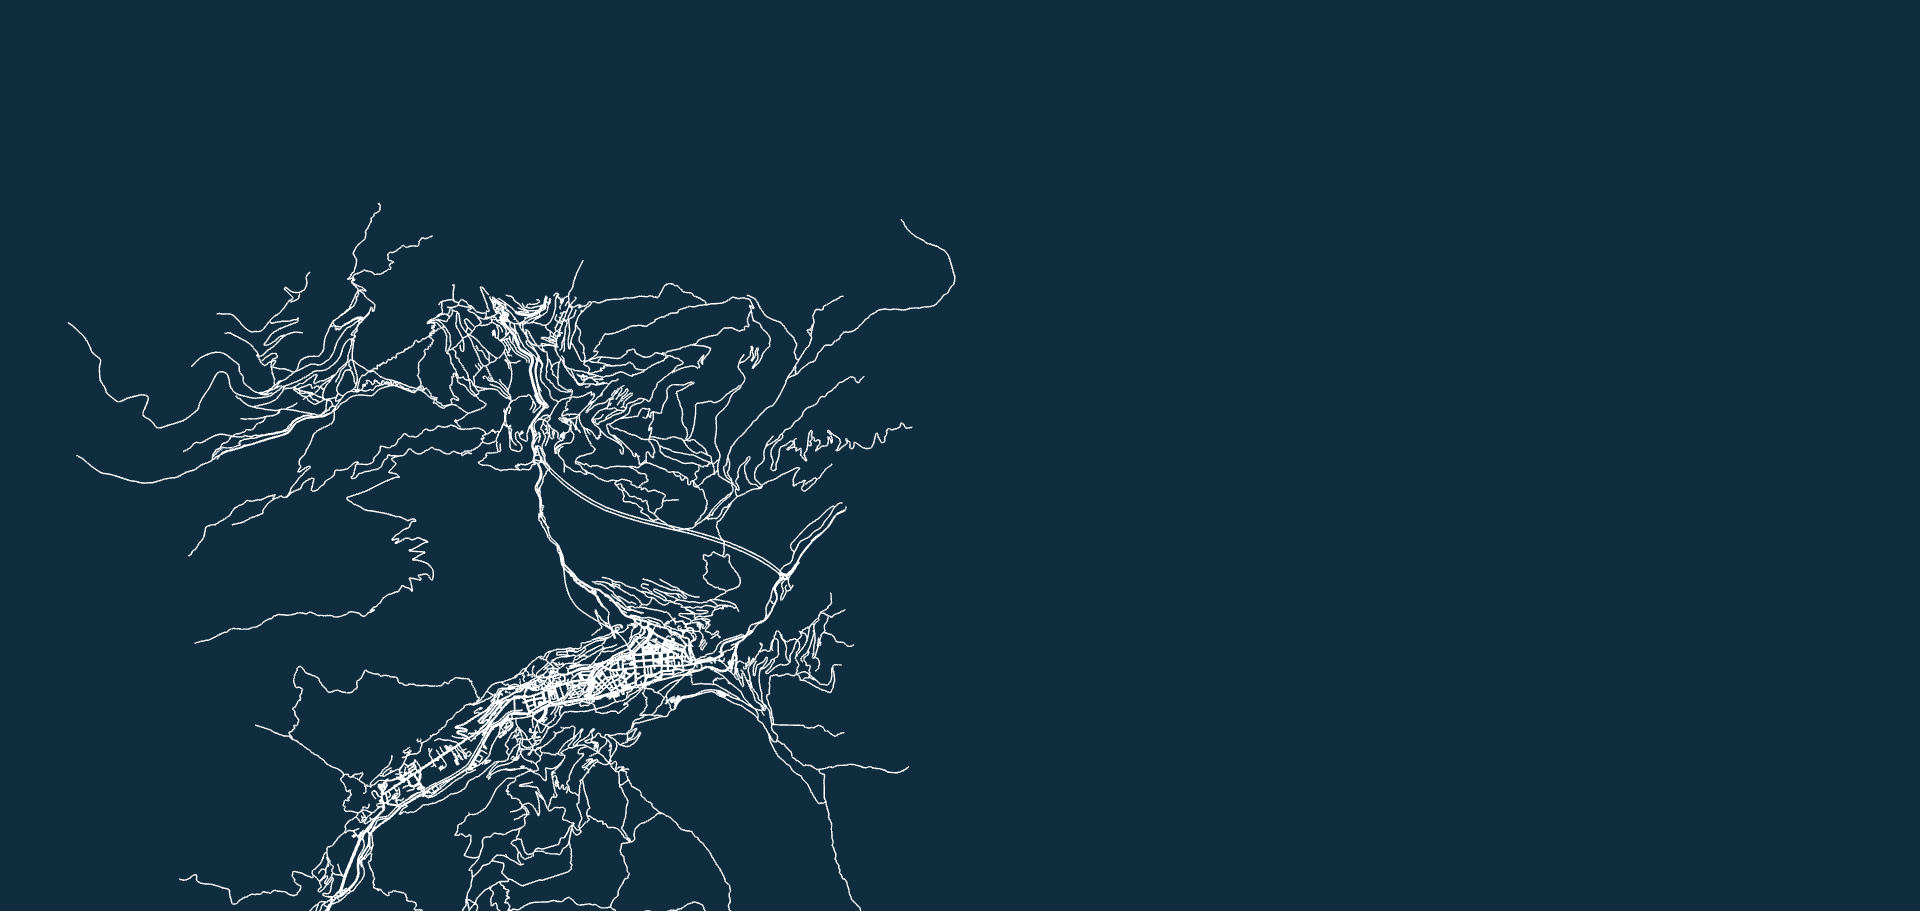
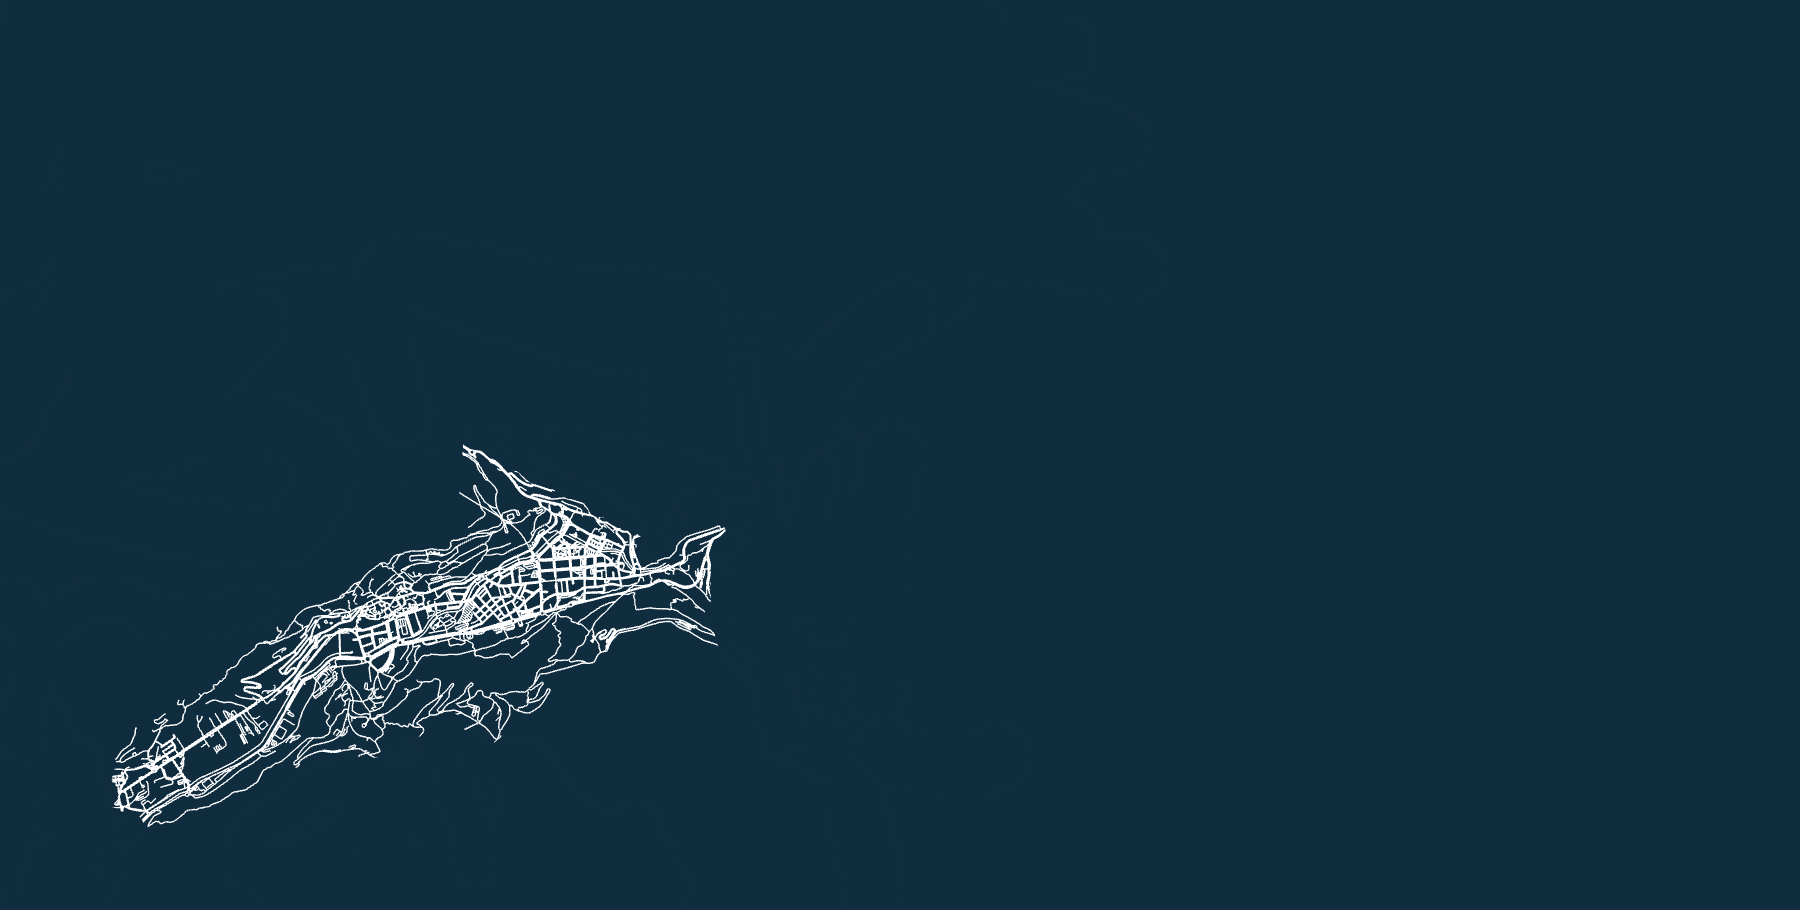
imatges streets responsives

diff --git a/css/desktop/containers.css b/css/desktop/containers.css
@@ -25,12 +25,14 @@
       top: 0;
       width: 100%;
       height: 100%;
+      background-color: var(--primary-color);
+      transition: all 0.5s;
 
       & .image {
-        width: 100%;
-        height: 100%;
+        position: absolute;
         object-fit: cover;
         transition: all 0.5s;
+        margin: 1.5vw;
       }
     }
 
@@ -50,6 +52,12 @@
       clip-path: polygon(0% 0%, 100% 100%, 100% 100%, 100% 0%);
       /* transition: clip-path 0.5s 0.6s; */
 
+      & .container--bg{
+        & .image{
+          right: 0;
+          width: 30%;
+        }
+      }
     }
 
     &.container__andorra {
@@ -57,6 +65,13 @@
       left: 0;
       clip-path: polygon(0% 0%, 0% 0%, 100% 100%, 0% 100%);
       /* transition: width 0.5s 0.6s, clip-path 0.5s 0.6s; */
+      & .container--bg{
+        & .image{
+          bottom: 0;
+          left: 0;
+          width: 40%;
+        }
+      }
 
     }
 
@@ -294,9 +309,12 @@
         clip-path: polygon(0% 0%, 0% 100%, 100% 100%, 100% 0%);
         transition: clip-path 0.3s 0.6s;
 
-        & img{
+        & .container--bg{
           opacity: 0;
           transition: opacity 0.5s 0.6s;
+
+        }
+        & img{
         }
 
       }
@@ -367,9 +385,12 @@
         clip-path: polygon(0% 0%, 100% 0%, 100% 100%, 0% 100%);
         transition: clip-path 0.3s 0.6s;
 
-        & img{
+        & .container--bg{
           opacity: 0;
           transition: opacity 0.5s 0.6s;
+
+        }
+        & img{
         }
 
       }

diff --git a/index.html b/index.html
@@ -22,7 +22,7 @@
         <div class="container--bg">
           <img
             class="image"
-            src="./assets/images/streets_madrid5.png"
+            src="./assets/images/streets_madrid_min.png"
             alt="fondo_madrid"
           />
 <!--          <video-->
@@ -85,7 +85,7 @@
         <div class="container--bg">
           <img
             class="image"
-            src="./assets/images/streets_andorra3.png"
+            src="./assets/images/streets_andorra_min.png"
             alt="fondo_andorra"
           />
 <!--          <video-->
